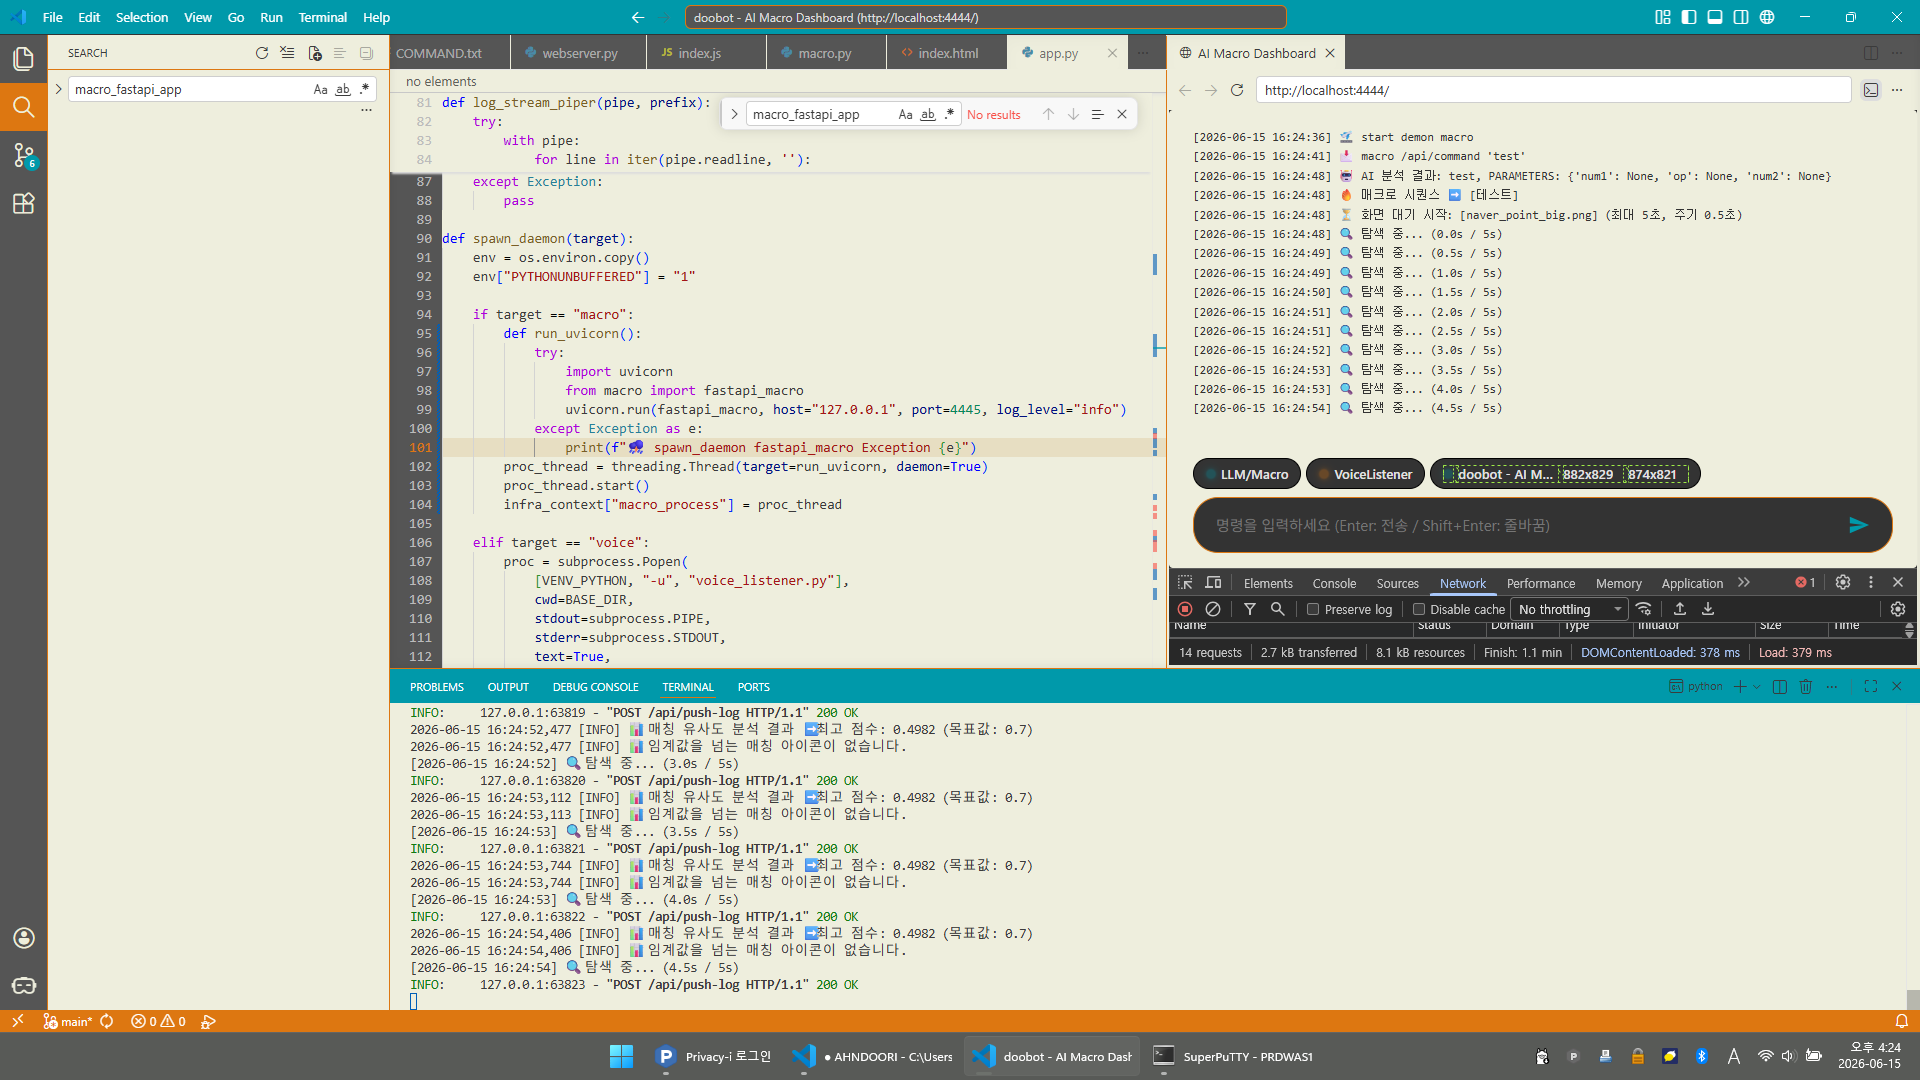
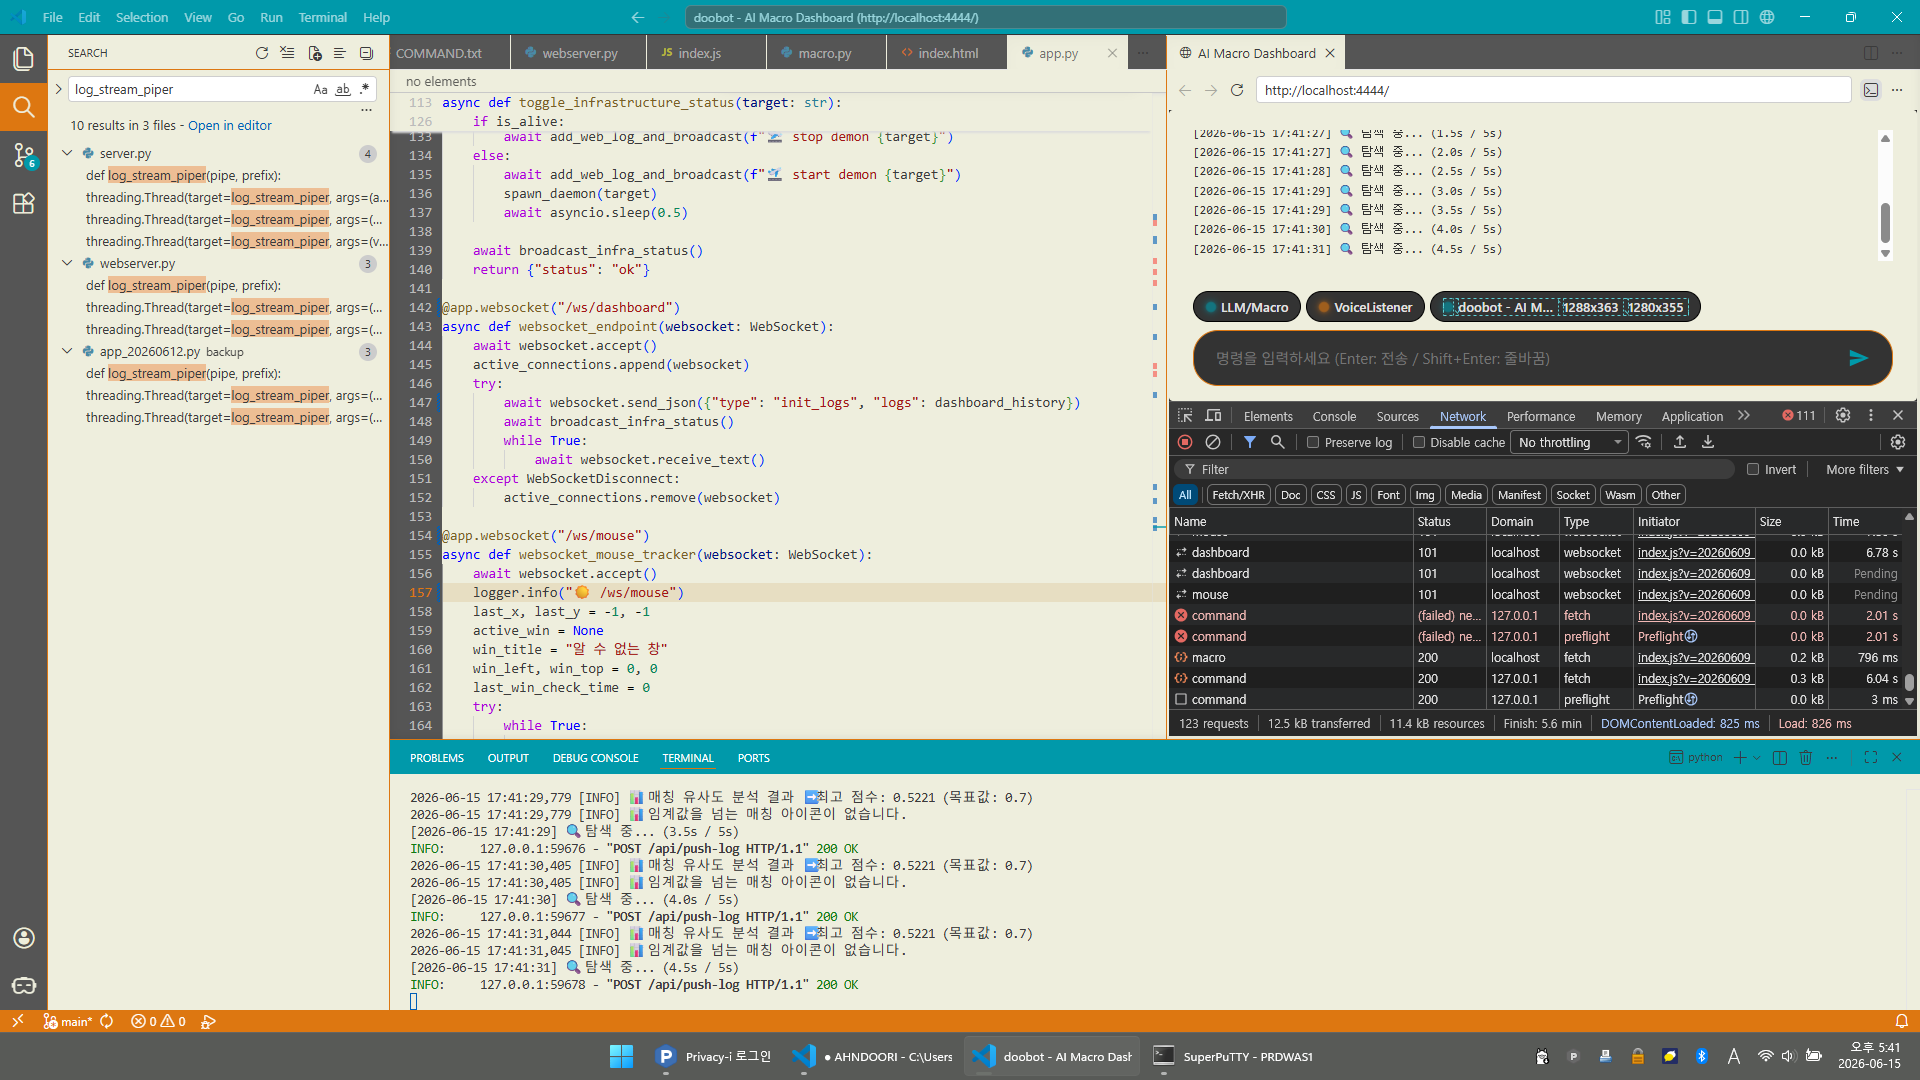
.

diff --git a/public/index.js b/public/index.js
@@ -23,7 +23,7 @@ function connectLogWebSocket() {
     const btnMacro = document.getElementById("btn-macro");
     const btnVoice = document.getElementById("btn-voice");
 
-    logSocket = new WebSocket(`ws://${SERVER_HOST}/ws/logs`);
+    logSocket = new WebSocket(`ws://${SERVER_HOST}/ws/dashboard`);
 
     logSocket.onopen = () => {
         log("🚀 [Doobot] 로그 웹소켓 연결 성공");
@@ -65,7 +65,7 @@ function connectMouseWebSocket() {
 
     //const statusEl = document.getElementById("connection-status");
 	const btnTracker=document.getElementById("btn-tracker");
-    mouseSocket = new WebSocket(`ws://${SERVER_HOST}/ws/mouse-tracker`);
+    mouseSocket = new WebSocket(`ws://${SERVER_HOST}/ws/mouse`);
 
     mouseSocket.onopen = () => {
 		updateButtonStatus(btnTracker,true);

diff --git a/app.py b/app.py
@@ -41,19 +41,16 @@ infra_context = {
     "initialized": False
 }
 
-web_logs = []
+dashboard_history = []
 active_connections: List[WebSocket] = []
-
-class LogPayload(BaseModel):
-    message: str
 
 async def add_web_log_and_broadcast(message):
     timestamp = time.strftime("%Y-%m-%d %H:%M:%S")
     formatted_log = f"[{timestamp}] {message}"
     print(formatted_log)
-    web_logs.append(formatted_log)
-    if len(web_logs) > 100:
-        web_logs.pop(0)
+    dashboard_history.append(formatted_log)
+    if len(dashboard_history) > 100:
+        dashboard_history.pop(0)
     for connection in active_connections:
         try:
             await connection.send_json({"type": "new_log", "log": formatted_log})
@@ -61,18 +58,14 @@ async def add_web_log_and_broadcast(message):
             pass
 
 async def broadcast_infra_status():
-    # 📌 1. Macro 상태 체크 (Thread는 is_alive() 사용)
     macro_alive = (
         infra_context["macro_process"] is not None 
         and infra_context["macro_process"].is_alive()
     )
-    
-    # 📌 2. Voice 상태 체크 (Popen은 poll()이 None이어야 살아있는 것)
     voice_alive = (
         infra_context["voice_process"] is not None 
         and infra_context["voice_process"].poll() is None
     )
-
     for connection in active_connections:
         try:
             await connection.send_json({
@@ -83,15 +76,6 @@ async def broadcast_infra_status():
         except Exception:
             pass
 
-def log_stream_piper(pipe, prefix):
-    try:
-        with pipe:
-            for line in iter(pipe.readline, ''):
-                if line:
-                    print(f"[{prefix}] {line.strip()}", flush=True)
-    except Exception:
-        pass
-
 def spawn_daemon(target):
     env = os.environ.copy()
     env["PYTHONUNBUFFERED"] = "1"
@@ -100,8 +84,8 @@ def spawn_daemon(target):
         def run_uvicorn():
             try:
                 import uvicorn
-                from macro import fastapi_macro
-                uvicorn.run(fastapi_macro, host="127.0.0.1", port=4445, log_level="info")
+                import macro
+                uvicorn.run(macro.macro, host="127.0.0.1", port=4445, log_level="info")
             except Exception as e:
                 print(f"⛈️ spawn_daemon fastapi_macro Exception {e}")
         proc_thread = threading.Thread(target=run_uvicorn, daemon=True)
@@ -112,22 +96,17 @@ def spawn_daemon(target):
         proc = subprocess.Popen(
             [VENV_PYTHON, "-u", "voice_listener.py"],
             cwd=BASE_DIR, 
-            stdout=subprocess.PIPE, 
-            stderr=subprocess.STDOUT, 
-            text=True, 
-            encoding="utf-8",
             env=env
         )
         infra_context["voice_process"] = proc
-        threading.Thread(target=log_stream_piper, args=(proc.stdout, "Voice-Client"), daemon=True).start()
 
 @app.get("/", response_class=HTMLResponse)
 async def index_page(request: Request):
     return templates.TemplateResponse(request=request, name="index.html")
 
 @app.post("/api/push-log")
-async def push_log_endpoint(payload: LogPayload):
-    await add_web_log_and_broadcast(payload.message)
+async def fastapi_api_push_log(payload: dict):
+    await add_web_log_and_broadcast(payload.get("message", ""))
     return {"status": "ok"}
 
 @app.post("/api/infra/toggle/{target}")
@@ -160,22 +139,22 @@ async def toggle_infrastructure_status(target: str):
     await broadcast_infra_status()
     return {"status": "ok"}
 
[email redacted]("/ws/logs")
[email redacted]("/ws/dashboard")
 async def websocket_endpoint(websocket: WebSocket):
     await websocket.accept()
     active_connections.append(websocket)
     try:
-        await websocket.send_json({"type": "init_logs", "logs": web_logs})
+        await websocket.send_json({"type": "init_logs", "logs": dashboard_history})
         await broadcast_infra_status()
         while True:
             await websocket.receive_text()
     except WebSocketDisconnect:
         active_connections.remove(websocket)
 
[email redacted]("/ws/mouse-tracker")
[email redacted]("/ws/mouse")
 async def websocket_mouse_tracker(websocket: WebSocket):
     await websocket.accept()
-    logger.info("☀️ /ws/mouse-tracker")
+    logger.info("☀️ /ws/mouse")
     last_x, last_y = -1, -1
     active_win = None
     win_title = "알 수 없는 창"

diff --git a/macro.py b/macro.py
@@ -15,7 +15,6 @@ import cv2
 import numpy as np
 import platform
 import subprocess
-import uvicorn
 from pydantic import BaseModel
 from fastapi import FastAPI, HTTPException
 from fastapi.middleware.cors import CORSMiddleware
@@ -294,16 +293,16 @@ def run_macro_sequence(macro, params=None):
     dashboard("✅ 시나리오 종료")
 
 
-fastapi_macro = FastAPI(title="Macro Core")
-fastapi_macro.add_middleware(
+macro = FastAPI(title="Macro Core")
+macro.add_middleware(
     CORSMiddleware,
     allow_origins=["*"],
     allow_credentials=True,
     allow_methods=["*"],
     allow_headers=["*"],
 )
-@fastapi_macro.post("/api/command")
-def fastapi_macro_api_command(request: CommandRequest):
[email redacted]("/api/command")
+def macro_api_command(request: CommandRequest):
     user_command = request.command
     dashboard(f"📩 macro /api/command '{user_command}'")
 